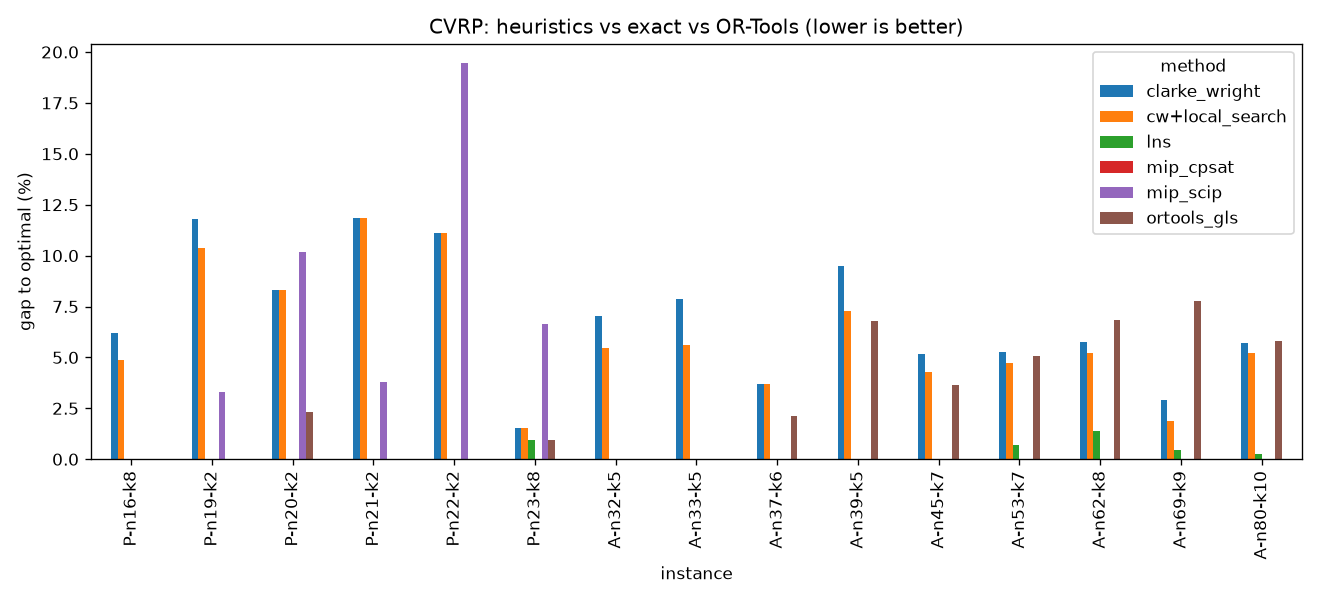
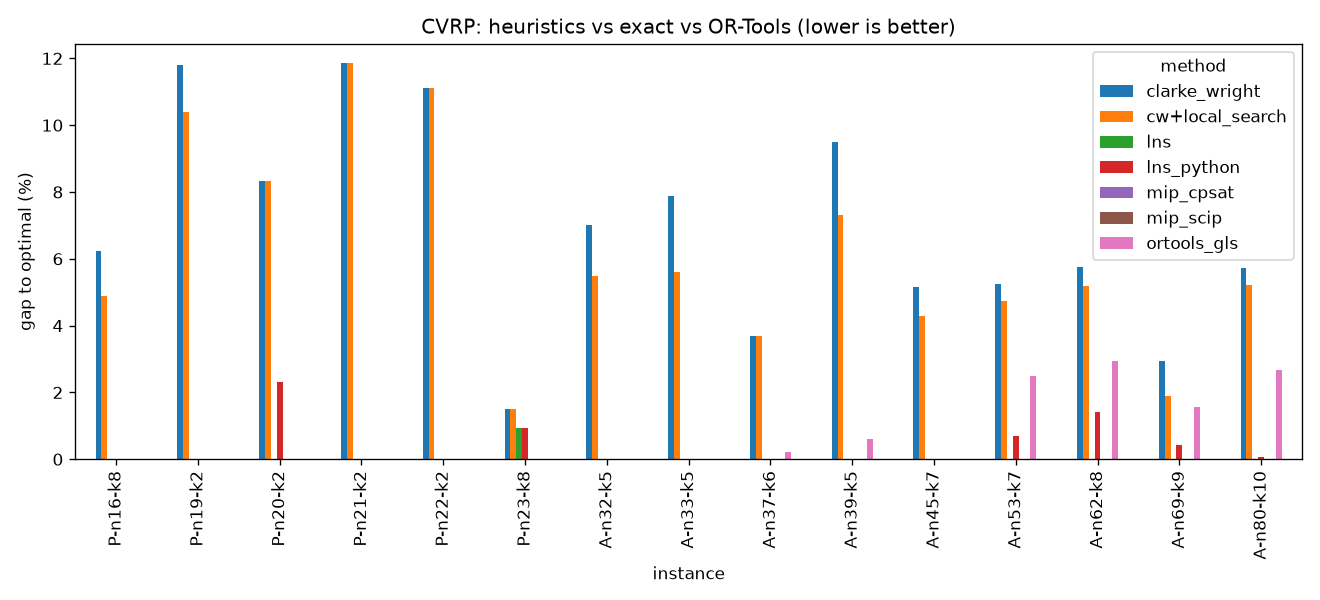
README + full benchmark results

diff --git a/README.md b/README.md
@@ -1,0 +1,118 @@
+# cvrp-bench
+
+A benchmark for the **Capacitated Vehicle Routing Problem (CVRP)**. It compares construction heuristics, local search, a
+large-neighbourhood search (LNS), an exact MIP and Google OR-Tools on 15 CVRPLIB instances with proven optimal solutions.
+
+The solver core is a single dependency-free C++20 file (`cpp/cvrp_solve.cpp`). Python handles everything around it:
+downloading the data, running the C++ binary, solving the exact MIP and the OR-Tools baseline, **independently validating
+every solution**, and producing the tables and chart.
+
+## The problem
+
+There is one depot and n customers, each with a demand, plus identical trucks of capacity Q. Every customer must be
+visited exactly once, each route starts and ends at the depot, and no route's load may exceed Q. The objective is to
+minimise total distance. Distances follow the TSPLIB `EUC_2D` rule, which is Euclidean distance **rounded to the nearest
+integer**. Without that rounding, the published optimal costs are not reproduced.
+
+## Methods
+
+| method | where | idea |
+|---|---|---|
+| `nearest_neighbor` | C++ | from the depot, always drive to the closest unvisited customer that still fits |
+| `clarke_wright` | C++ | savings algorithm: start with one route per customer, then merge routes end-to-end in order of saving d(0,i)+d(0,j)−d(i,j) |
+| `cw+local_search` | C++ | Clarke–Wright, then best-improvement relocate / swap moves plus 2-opt, until no move improves the cost |
+| `lns` | C++ | ruin and recreate: remove a customer and its nearest neighbours, reinsert them greedily, run local search, and accept the result with a simulated-annealing rule |
+| `lns_python` | Python | **the same LNS** in pure Python, used for the speed comparison |
+| `ortools_gls` | Python | OR-Tools routing (savings start + guided local search), default settings |
+| `mip_scip`, `mip_cpsat` | Python | exact two-index MIP with MTZ load constraints and a lower bound on the number of trucks, solved by SCIP and by CP-SAT |
+
+## How correctness is checked
+
+- `check_optima.py` reads every published optimal solution, and the parser and cost function reproduce **all 15 optimal costs exactly**.
+- `solution.validate` checks every result: each customer visited exactly once, no overloaded truck, no invalid nodes. The
+  C++ binary only *searches*. Python re-checks the returned routes and recomputes the cost itself, so a bug in the C++ cannot
+  produce an unverified "good" number.
+- The C++ heuristics are tested against the Python implementations (`heuristics.py`) and must produce **identical routes on
+  all 15 instances**. That test caught a real bug during development: a one-character typo in relocate that silently skipped
+  valid moves (cost 828 instead of 827).
+- 16 pytest tests, including brute-force optimality on a tiny instance and a proven-optimal MIP result.
+
+## Run
+
+```bash
+uv sync                                    # Python 3.12 environment + dependencies
+make                                       # builds build/cvrp_solve (clang++ -O2 -std=c++20 -Wall -Wextra)
+uv run python -m cvrp_bench.download       # 15 instances + optimal solutions into data/
+uv run python check_optima.py              # parser + cost function vs the published optima
+make test                                  # rebuild if needed + run the 16 tests
+uv run cvrp-bench --compare-python-lns     # full benchmark, ~12 min -> results/
+build/cvrp_solve data/A-n32-k5.vrp lns 10 0    # the C++ binary on its own: <file> <nn|cw|ls|lns> [seconds] [seed]
+```
+
+## Results
+
+MacBook Air M4, 15 Oct 2026. LNS and OR-Tools get 10 s per instance; the MIP gets 60 s and only runs up to 23 nodes.
+**All 102 runs produced feasible solutions.**
+
+| method | mean gap to optimum | optimal on |
+|---|---:|---:|
+| nearest_neighbor (C++) | 32.59 % | 0 / 15 |
+| clarke_wright (C++) | 6.91 % | 0 / 15 |
+| cw+local_search (C++) | 6.10 % | 0 / 15 |
+| **lns (C++)** | **0.06 %** | **14 / 15** |
+| lns (Python, same algorithm) | 0.39 % | 9 / 15 |
+| ortools_gls | 0.70 % | 9 / 15 |
+| mip_scip | 0.00 % | 6 / 6 (5 proven) |
+| mip_cpsat | 0.00 % | 6 / 6 (5 proven) |
+
+![Gap to optimum per instance and method](results/gaps.png)
+
+Per-instance tables and the C++ vs Python iteration counts are in [`results/summary.md`](results/summary.md). The raw data is in `results/results.csv`.
+
+## Findings
+
+1. **Speed turns into solution quality.** With the same LNS and the same 10 s, C++ runs **17–41× more iterations (median
+   38×)**. The mean gap falls from 0.39 % to **0.06 %**, and optimal results rise from 9 to **14 of 15**. Python's misses are
+   mostly on the larger instances (A-n53 to A-n80), which is where extra iterations matter most.
+2. **Speed doesn't fix everything.** On P-n23-k8, both versions stop at **+0.95 %** (534 vs 529), even though C++ ran about
+   1.8 million iterations. The search is trapped, and getting out needs a different neighbourhood or acceptance rule, not more
+   iterations.
+3. **Exact and heuristic methods complement each other.** On that same instance the MIP **finds the optimum (529)** but cannot
+   prove it in 60 s: the lower bound stalls at 444–452, about 15 % below. So the exact method finds what the metaheuristic
+   misses, while the metaheuristic scales to sizes the exact method can't.
+4. **The MTZ model hits a wall at about 23 nodes.** It proves optimality for n ≤ 22 within 0.3–20 s and then times out. MTZ
+   is compact, but its LP relaxation is weak, so the bound improves too slowly. On the same model, **CP-SAT was 3–13× faster than
+   SCIP** (e.g. P-n22-k2: 1.4 s vs 18.9 s).
+5. **Escaping local optima is what closes the gap.** Savings gets within 6.9 % on average and local search only improves that to 6.1 %.
+   The LNS's ruin-and-recreate step plus annealing acceptance takes it to 0.06 %.
+6. **OR-Tools degrades with size here.** It stays within 0.6 % of optimal up to 44 customers, then falls to 1.5–3 % off on A-n53 to A-n80. This
+   compares OR-Tools' *default* settings against an LNS specialised for CVRP, so it is not a verdict on OR-Tools in general.
+7. The speed-up is smallest on P-n16-k8 and P-n23-k8 (17–20×), the two instances with many short routes. One hypothesis,
+   not yet tested: each iteration does less work there, so fixed per-iteration costs take a larger share.
+
+## Limitations
+
+- One random seed per run. Time-limited results vary by machine and load.
+- Instances have at most 79 customers. Larger CVRPLIB sets (e.g. the X set) would test scaling properly.
+- OR-Tools runs with default parameters and up to n−1 vehicles.
+- The MIP uses the compact MTZ formulation. Stronger formulations (rounded capacity cuts, branch-and-cut) would prove larger instances.
+
+## Layout
+
+```
+cpp/cvrp_solve.cpp          C++ solver: parser, NN, Clarke-Wright, 2-opt, relocate/swap, LNS
+src/cvrp_bench/
+  download.py               fetch instances + optimal solutions from CVRPLIB
+  instance.py               .vrp / .sol parser, rounded EUC_2D distances
+  solution.py               route cost, load, feasibility validator
+  cpp_solver.py             runs the C++ binary as a subprocess, parses its routes
+  heuristics.py             Python twin of the heuristics (test oracle)
+  metaheuristic.py          Python twin of the LNS (speed comparison)
+  exact.py                  MTZ MIP via OR-Tools (SCIP / CP-SAT)
+  ortools_routing.py        OR-Tools routing baseline
+  bench.py                  runs everything, writes results/
+tests/test_cvrp.py          16 tests
+check_optima.py             parser + cost function vs published optima
+```
+
+Data: [CVRPLIB](https://galgos.inf.puc-rio.br/cvrplib/), Augerat sets A and P.

diff --git a/results/summary.md b/results/summary.md
@@ -1,22 +1,22 @@
 Gap to optimal (%) per instance and method
 
-| instance   |   clarke_wright |   cw+local_search |   lns |   mip_cpsat |   mip_scip |   nearest_neighbor |   ortools_gls |
-|:-----------|----------------:|------------------:|------:|------------:|-----------:|-------------------:|--------------:|
-| P-n16-k8   |            6.22 |              4.89 |  0    |           0 |       0    |              10.44 |          0    |
-| P-n19-k2   |           11.79 |             10.38 |  0    |           0 |       3.3  |              17.92 |          0    |
-| P-n20-k2   |            8.33 |              8.33 |  0    |           0 |      10.19 |              43.06 |          2.31 |
-| P-n21-k2   |           11.85 |             11.85 |  0    |           0 |       3.79 |              21.8  |          0    |
-| P-n22-k2   |           11.11 |             11.11 |  0    |           0 |      19.44 |              20.83 |          0    |
-| P-n23-k8   |            1.51 |              1.51 |  0.95 |           0 |       6.62 |              41.02 |          0.95 |
-| A-n32-k5   |            7.02 |              5.48 |  0    |         nan |     nan    |              46.05 |          0    |
-| A-n33-k5   |            7.87 |              5.6  |  0    |         nan |     nan    |              47.81 |          0    |
-| A-n37-k6   |            3.69 |              3.69 |  0    |         nan |     nan    |              40.57 |          2.11 |
-| A-n39-k5   |            9.49 |              7.3  |  0    |         nan |     nan    |              30.17 |          6.81 |
-| A-n45-k7   |            5.15 |              4.28 |  0    |         nan |     nan    |              24.61 |          3.66 |
-| A-n53-k7   |            5.25 |              4.75 |  0.69 |         nan |     nan    |              42.97 |          5.05 |
-| A-n62-k8   |            5.75 |              5.2  |  1.4  |         nan |     nan    |              37.81 |          6.83 |
-| A-n69-k9   |            2.93 |              1.9  |  0.43 |         nan |     nan    |              30.54 |          7.77 |
-| A-n80-k10  |            5.73 |              5.22 |  0.28 |         nan |     nan    |              33.18 |          5.79 |
+| instance   |   clarke_wright |   cw+local_search |   lns |   lns_python |   mip_cpsat |   mip_scip |   nearest_neighbor |   ortools_gls |
+|:-----------|----------------:|------------------:|------:|-------------:|------------:|-----------:|-------------------:|--------------:|
+| P-n16-k8   |            6.22 |              4.89 |  0    |         0    |           0 |          0 |              10.44 |          0    |
+| P-n19-k2   |           11.79 |             10.38 |  0    |         0    |           0 |          0 |              17.92 |          0    |
+| P-n20-k2   |            8.33 |              8.33 |  0    |         2.31 |           0 |          0 |              43.06 |          0    |
+| P-n21-k2   |           11.85 |             11.85 |  0    |         0    |           0 |          0 |              21.8  |          0    |
+| P-n22-k2   |           11.11 |             11.11 |  0    |         0    |           0 |          0 |              20.83 |          0    |
+| P-n23-k8   |            1.51 |              1.51 |  0.95 |         0.95 |           0 |          0 |              41.02 |          0    |
+| A-n32-k5   |            7.02 |              5.48 |  0    |         0    |         nan |        nan |              46.05 |          0    |
+| A-n33-k5   |            7.87 |              5.6  |  0    |         0    |         nan |        nan |              47.81 |          0    |
+| A-n37-k6   |            3.69 |              3.69 |  0    |         0    |         nan |        nan |              40.57 |          0.21 |
+| A-n39-k5   |            9.49 |              7.3  |  0    |         0    |         nan |        nan |              30.17 |          0.61 |
+| A-n45-k7   |            5.15 |              4.28 |  0    |         0    |         nan |        nan |              24.61 |          0    |
+| A-n53-k7   |            5.25 |              4.75 |  0    |         0.69 |         nan |        nan |              42.97 |          2.48 |
+| A-n62-k8   |            5.75 |              5.2  |  0    |         1.4  |         nan |        nan |              37.81 |          2.95 |
+| A-n69-k9   |            2.93 |              1.9  |  0    |         0.43 |         nan |        nan |              30.54 |          1.55 |
+| A-n80-k10  |            5.73 |              5.22 |  0    |         0.06 |         nan |        nan |              33.18 |          2.67 |
 
 Mean gap (%)
 
@@ -24,8 +24,29 @@ Mean gap (%)
 |:-----------------|----------:|
 | clarke_wright    |      6.91 |
 | cw+local_search  |      6.1  |
-| lns              |      0.25 |
+| lns              |      0.06 |
+| lns_python       |      0.39 |
 | mip_cpsat        |      0    |
-| mip_scip         |      7.22 |
+| mip_scip         |      0    |
 | nearest_neighbor |     32.59 |
-| ortools_gls      |      2.75 |
+| ortools_gls      |      0.7  |
+
+C++ LNS vs Python LNS (same time limit)
+
+| instance   |   iterations_lns |   iterations_lns_python |   gap_pct_lns |   gap_pct_lns_python |   speedup_x |
+|:-----------|-----------------:|------------------------:|--------------:|---------------------:|------------:|
+| P-n16-k8   |      3.27972e+06 |                  189241 |          0    |                 0    |        17.3 |
+| P-n19-k2   |      7.07604e+06 |                  215874 |          0    |                 0    |        32.8 |
+| P-n20-k2   |      7.14522e+06 |                  213282 |          0    |                 2.31 |        33.5 |
+| P-n21-k2   |      6.30416e+06 |                  157643 |          0    |                 0    |        40   |
+| P-n22-k2   |      5.7871e+06  |                  157628 |          0    |                 0    |        36.7 |
+| P-n23-k8   |      1.79187e+06 |                   91863 |          0.95 |                 0.95 |        19.5 |
+| A-n32-k5   |      2.32753e+06 |                   62273 |          0    |                 0    |        37.4 |
+| A-n33-k5   |      2.43335e+06 |                   61684 |          0    |                 0    |        39.4 |
+| A-n37-k6   |      1.76126e+06 |                   46924 |          0    |                 0    |        37.5 |
+| A-n39-k5   |      1.83966e+06 |                   48472 |          0    |                 0    |        38   |
+| A-n45-k7   |      1.0716e+06  |                   27569 |          0    |                 0    |        38.9 |
+| A-n53-k7   |      1.0527e+06  |                   25475 |          0    |                 0.69 |        41.3 |
+| A-n62-k8   | 519368           |                   12900 |          0    |                 1.4  |        40.3 |
+| A-n69-k9   | 463961           |                   11206 |          0    |                 0.43 |        41.4 |
+| A-n80-k10  | 314600           |                    7646 |          0    |                 0.06 |        41.1 |
